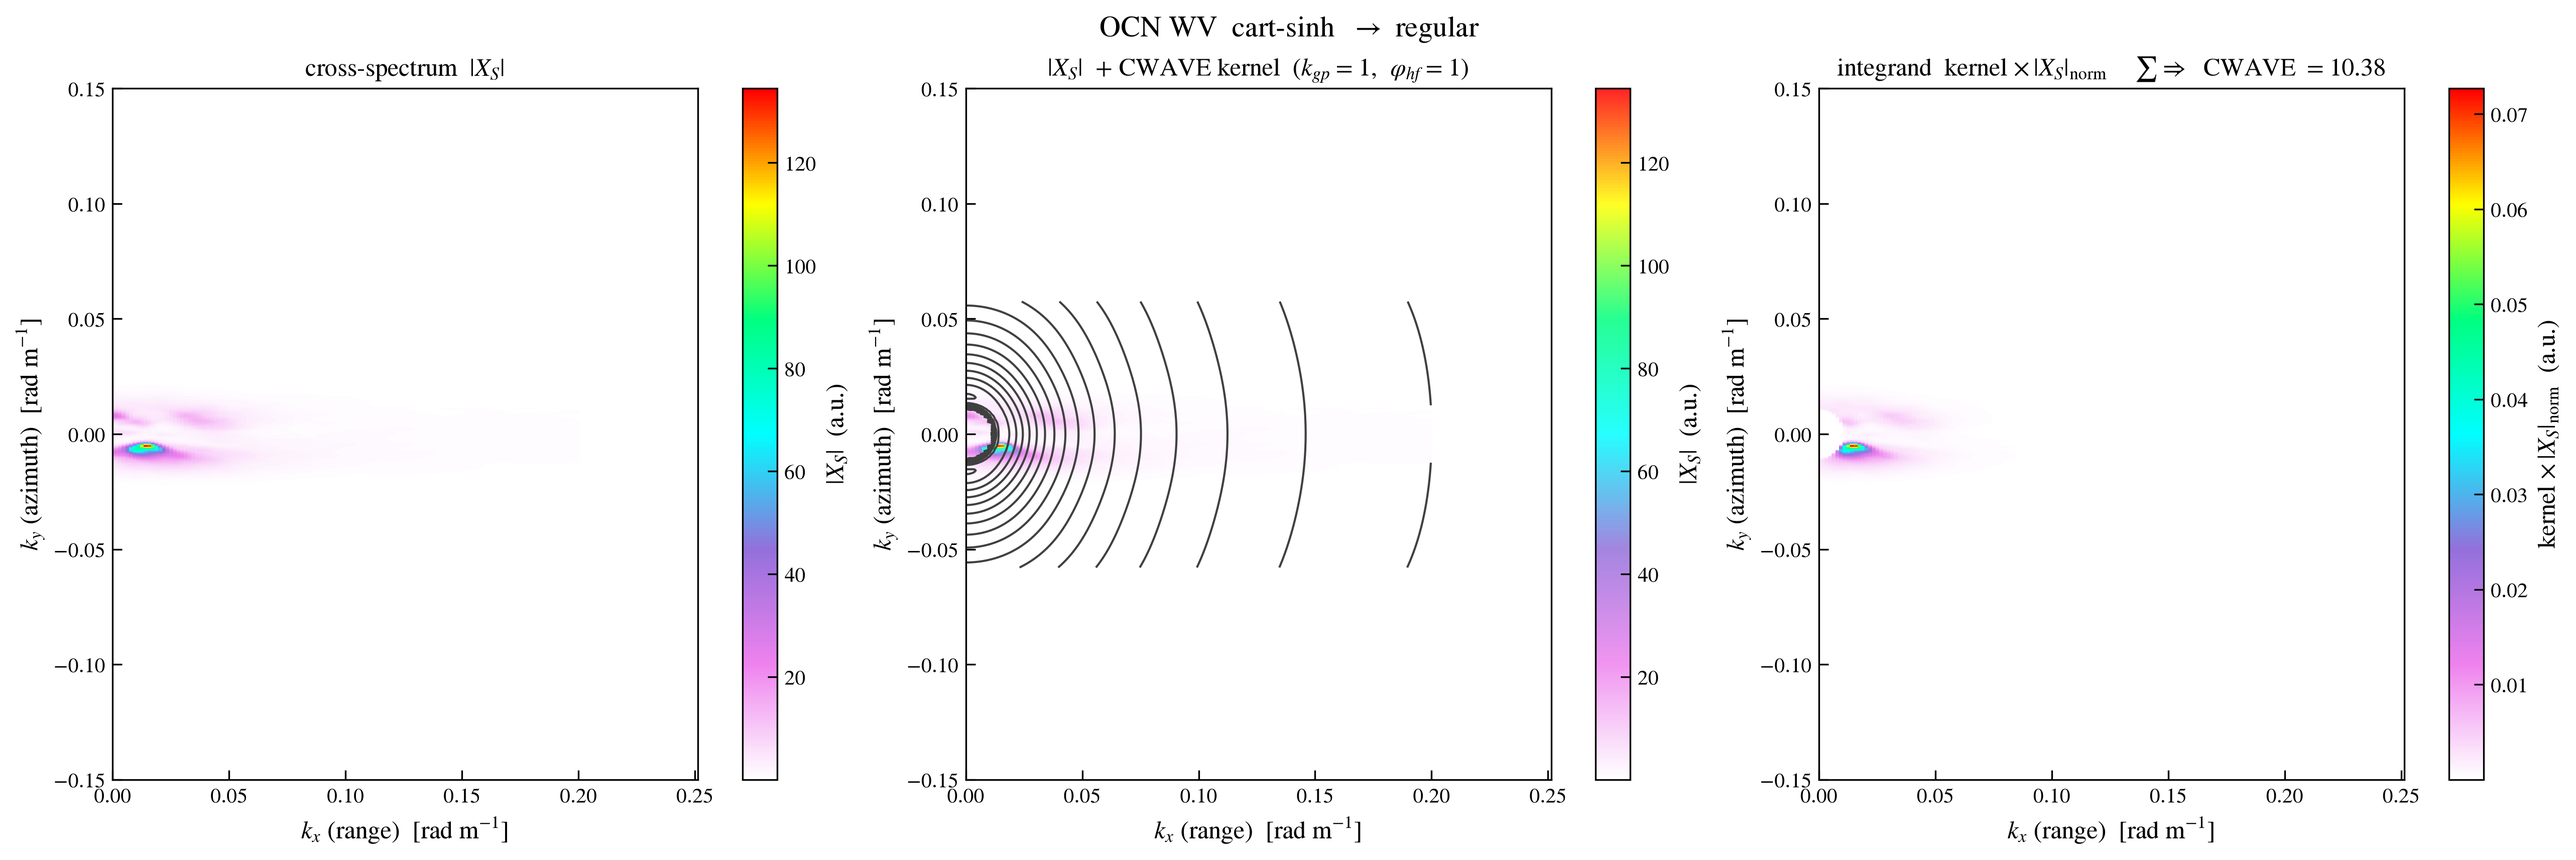
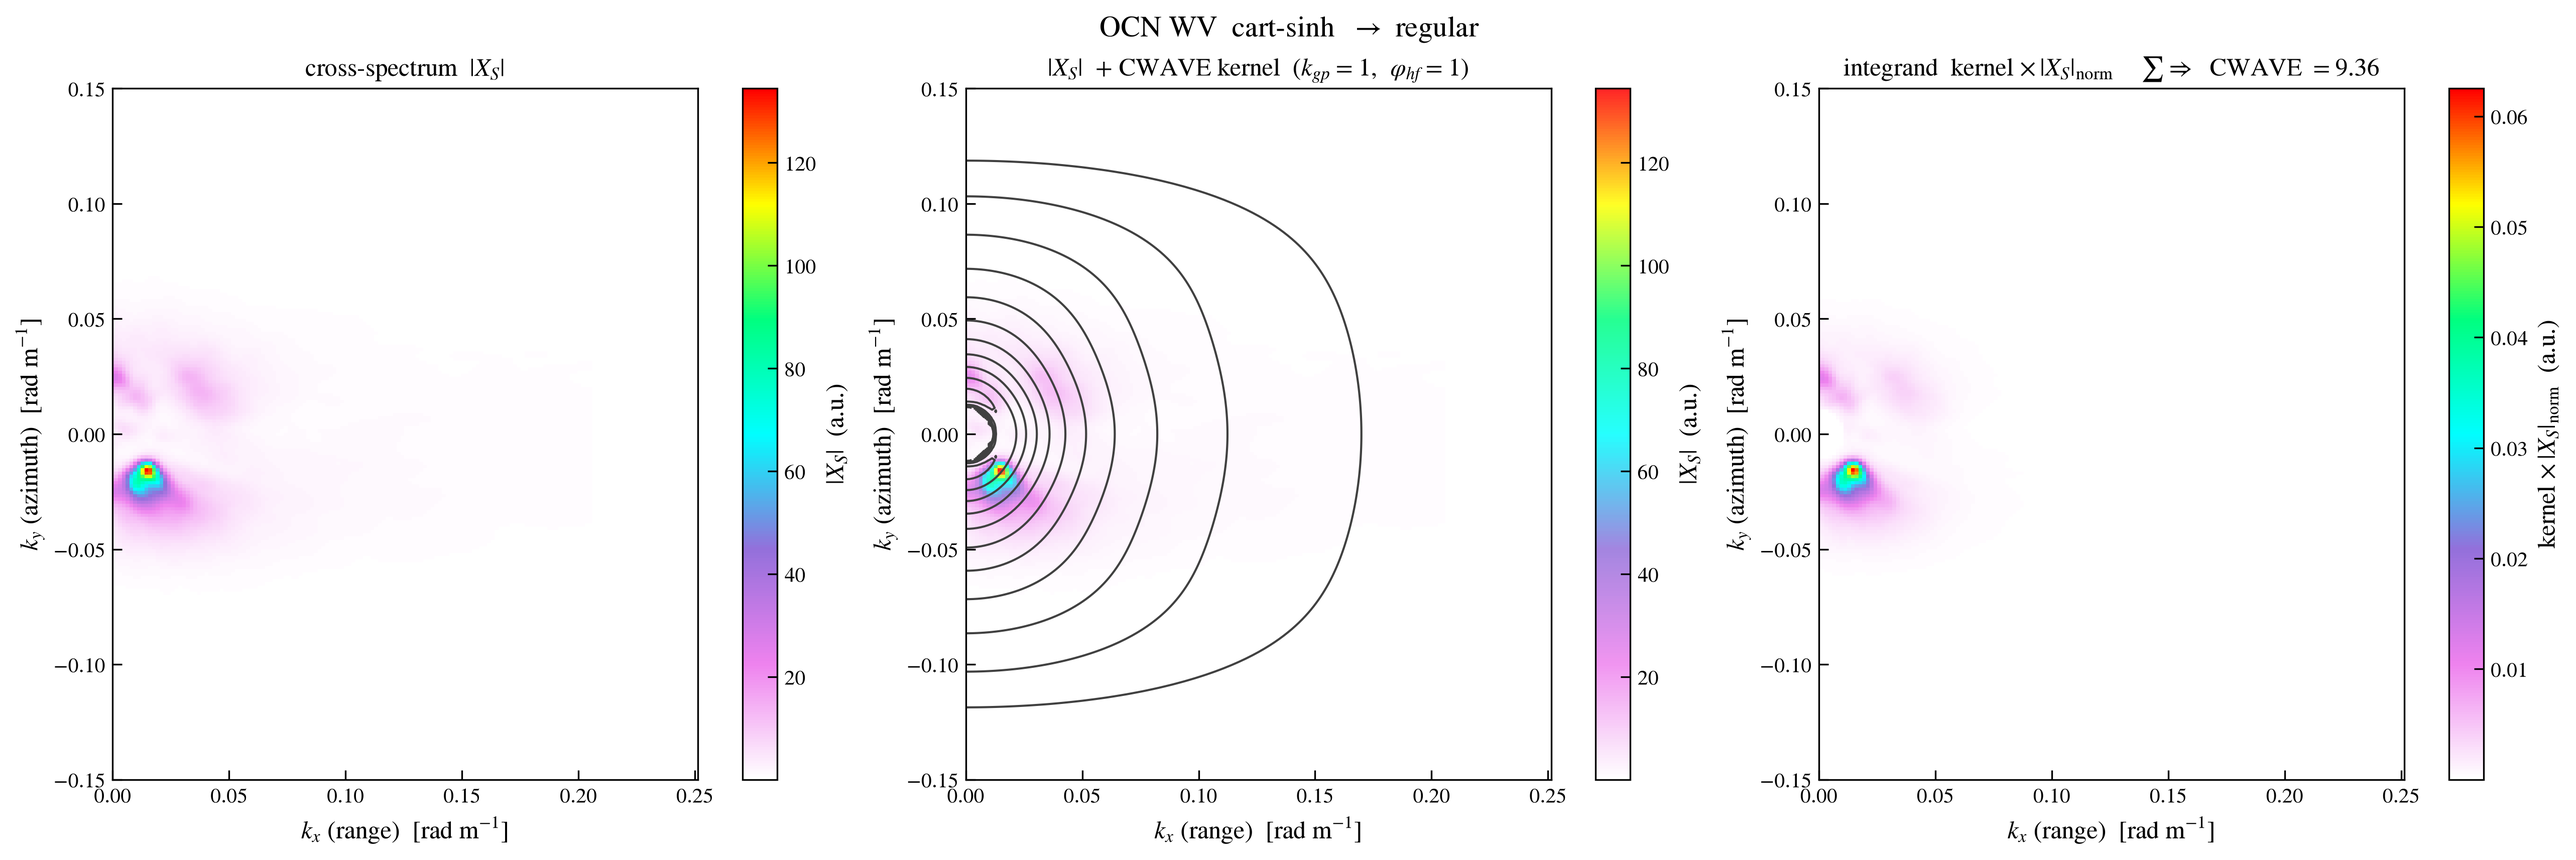
ocn_sinh: independent dkx/dky physical calibration (fix azimuth compression)
The old calibration tied range and azimuth to a single aspect ratio
(oswKx.max()/oswKy.max()), which under-estimates the azimuth scale and
compresses the azimuth energy (std 0.010 vs the ~0.028 of the SARWAVE XSP and
raw data). Range and azimuth have INDEPENDENT physical scales, so the physical
wavenumber grid is now calibrated with the independent IFREMER get_k_matrix
formulas :

- azimuth dky = mean(oswKy / (oswAziSize * sinh(growth*kappa)/growth))
- range   dkx = (xresfac*raSamplingFreq/(c*M_range)) * 4*pi*sin(inca)

both derived from the product (oswKy, oswAziSize, owiIncidenceAngle,
raSamplingFreq) with a default xsubsize (int_pp2). After the fix the ocn_sinh
azimuth energy std is ~0.034 (vs XSP 0.028) and range std ~0.046 (vs XSP
0.053) - both axes now match the other decode methods. Regenerated the
certification_ocn_sinh figure.

diff --git a/cwaves/ocn_sinh.py b/cwaves/ocn_sinh.py
@@ -14,8 +14,9 @@ mirroring the IFREMER ``l2_osw_decompressor`` :
 
 The normalized (``m/m``) output grid is then **calibrated to physical wavenumbers
 (rad/m)** from the product's own arrays (no external ``int_pp2`` needed) : the
-maximum wavenumber is taken from the unambiguous polar array ``oswK`` (rad/m) and
-the range/azimuth extent ratio from the ``oswKx`` / ``oswKy`` arrays.
+range (``dkx``) and azimuth (``dky``) cell spacings are computed independently
+from ``oswKy`` / ``oswAziSize`` (azimuth) and ``raSamplingFreq`` /
+``owiIncidenceAngle`` (range), matching the IFREMER ``get_k_matrix``.
 
 This complements :func:`cwaves.client.polar_to_cartesian`, which goes through the
 polar spectrum ``oswPolSpec`` : both are valid ways to obtain a regular cartesian
@@ -31,6 +32,12 @@ import xarray as xr
 
 #: default sinh growth rate (``resGrowthRate``), the IFREMER processing default.
 DEFAULT_GROWTH_RATE = 1.0 / 30.1
+
+#: default range sub-image size (``xsubsize``), the IFREMER int_pp2 default.
+DEFAULT_XSUBSIZE = 1024
+
+#: speed of light (m/s)
+_SPEED_OF_LIGHT = 299792458.0
 
 
 def _sinc(arg: np.ndarray) -> np.ndarray:
@@ -92,34 +99,55 @@ def reconstruct_full_cart_spec(
 
 
 def _physical_scale(
-    ds: xr.Dataset, kx_idx: np.ndarray, ky_idx: np.ndarray
+    ds: xr.Dataset,
+    kx_idx: np.ndarray,
+    ky_idx: np.ndarray,
+    growth: float = DEFAULT_GROWTH_RATE,
+    xsubsize: int = DEFAULT_XSUBSIZE,
 ) -> tuple[np.ndarray, np.ndarray]:
     """Calibrate the decompressed linear-index grid to physical wavenumbers (rad/m).
 
     The decompressed spectrum is uniform in its linear index. The physical
     wavenumber is ``index * dk`` (a uniform rad/m grid, as in the IFREMER
-    ``get_k_matrix``). The maximum wavenumber is taken from the unambiguous polar
-    array ``oswK`` (rad/m) and the range/azimuth extent ratio from the ``oswKx``
-    / ``oswKy`` arrays (dimensionless ``m/m`` ratio). The grid corner magnitude is
-    set to ``max(oswK)`` : ``k_y = max(oswK) / sqrt(aspect^2 + 1)`` and
-    ``k_x = aspect * k_y``.
+    ``get_k_matrix``). The range (``dkx``) and azimuth (``dky``) cell spacings are
+    computed **independently** from the product geometry : range and azimuth have
+    independent physical scales, so tying them by a single ratio (the old
+    ``oswKx.max()/oswKy.max()`` approach) under-estimates the azimuth scale and
+    compresses the azimuth energy.
+
+    * **azimuth** ``dky`` : ``mean(oswKy / (oswAziSize * KKy))`` with
+      ``KKy = sinh(growth * kappa) / growth`` (the azimuth sinh mapper), matching
+      the IFREMER ``get_k_matrix``.
+    * **range** ``dkx`` : ``(xresfac * raSamplingFreq / (c * M_range)) *
+      4 pi sin(inca)`` with ``xresfac = M_range / xsubsize``.
 
     Args:
-        ds: the OCN WV dataset (must contain ``oswK``, ``oswKx`` and ``oswKy``).
+        ds: the OCN WV dataset (must contain ``oswKy``, ``oswAziSize``,
+            ``owiIncidenceAngle`` and the ``raSamplingFreq`` attribute).
         kx_idx: the range linear-index grid (``arange(M) - M // 2``).
         ky_idx: the azimuth linear-index grid (``arange(M) - M // 2``).
+        growth: the sinh growth rate (``resGrowthRate``); default
+            :data:`DEFAULT_GROWTH_RATE`.
+        xsubsize: the range sub-image size (``xsubsize`` from the IFREMER
+            ``int_pp2``); default :data:`DEFAULT_XSUBSIZE`.
 
     Returns:
         A tuple ``(kx, ky)`` of the physical wavenumber grids in rad/m.
     """
-    kmax_polar = float(np.nanmax(ds["oswK"].values))
-    osw_kx = ds["oswKx"].squeeze().values
     osw_ky = ds["oswKy"].squeeze().values
-    aspect = float(np.nanmax(osw_kx) / np.nanmax(osw_ky))
-    ky_max = kmax_polar / np.sqrt(aspect**2 + 1.0)
-    kx_max = aspect * ky_max
-    dkx = kx_max / float(np.max(np.abs(kx_idx)))
-    dky = ky_max / float(np.max(np.abs(ky_idx)))
+    n_az = osw_ky.size
+    kappa = np.arange(n_az) - n_az // 2
+    kky = np.sinh(growth * kappa) / growth
+    azi_size = float(np.ravel(ds["oswAziSize"].values)[0])
+    dky = float(np.nanmean(osw_ky / (azi_size * kky)))
+
+    ra_sample_freq = float(ds.attrs["raSamplingFreq"])
+    inca = np.deg2rad(float(np.ravel(ds["owiIncidenceAngle"].values)[0]))
+    m_range = kx_idx.size
+    xresfac = m_range / xsubsize
+    dkx = (xresfac * ra_sample_freq / (_SPEED_OF_LIGHT * m_range)) * (
+        4.0 * np.pi * np.sin(inca)
+    )
     return kx_idx * dkx, ky_idx * dky
 
 
@@ -129,6 +157,7 @@ def compute_ocn_sinh_cartesian(
     m_range: int = 256,
     m_azimuth: int = 256,
     growth: float = DEFAULT_GROWTH_RATE,
+    xsubsize: int = DEFAULT_XSUBSIZE,
     osw_az_idx: int = 0,
     osw_ra_idx: int = 0,
 ) -> xr.DataArray:
@@ -141,13 +170,15 @@ def compute_ocn_sinh_cartesian(
 
     Args:
         ds: an opened OCN WV measurement dataset (must contain
-            ``oswCartSpecRe`` / ``oswCartSpecIm`` / ``oswK`` / ``oswKx`` /
-            ``oswKy``).
+            ``oswCartSpecRe`` / ``oswCartSpecIm`` / ``oswKy`` / ``oswAziSize`` /
+            ``owiIncidenceAngle`` and the ``raSamplingFreq`` attribute).
         lag: the ``oswLag`` index (0/1/2; default 2 = the 2-tau cross-spectrum).
         m_range: number of range wavenumbers of the regular output grid.
         m_azimuth: number of azimuth wavenumbers of the regular output grid.
         growth: the sinh growth rate (``resGrowthRate``); default
             :data:`DEFAULT_GROWTH_RATE`.
+        xsubsize: the range sub-image size (``xsubsize`` from the IFREMER
+            ``int_pp2``); default :data:`DEFAULT_XSUBSIZE`.
         osw_az_idx: the ``oswAzSize`` tile index.
         osw_ra_idx: the ``oswRaSize`` tile index.
 
@@ -186,7 +217,7 @@ def compute_ocn_sinh_cartesian(
     # 3. calibrate the uniform linear-index grid to physical rad/m
     kx_idx = np.arange(m_range) - np.floor(m_range / 2)
     ky_idx = np.arange(m_azimuth) - np.floor(m_azimuth / 2)
-    kx, ky = _physical_scale(ds, kx_idx, ky_idx)
+    kx, ky = _physical_scale(ds, kx_idx, ky_idx, growth=growth, xsubsize=xsubsize)
 
     # 4. keep the one-sided (range >= 0) half, expected by compute_cwave_parameters
     sel = kx >= 0
